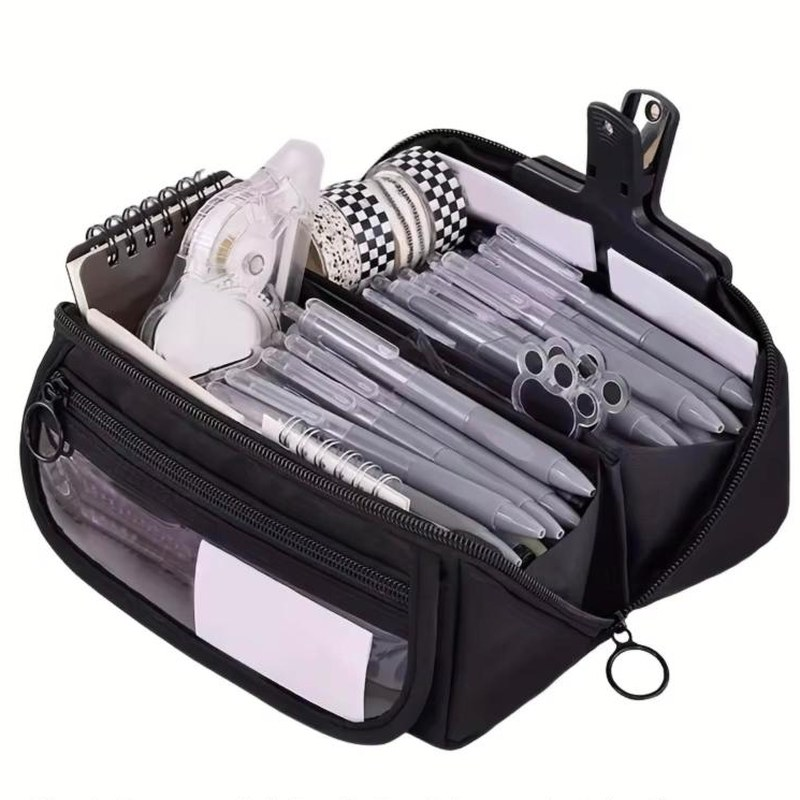
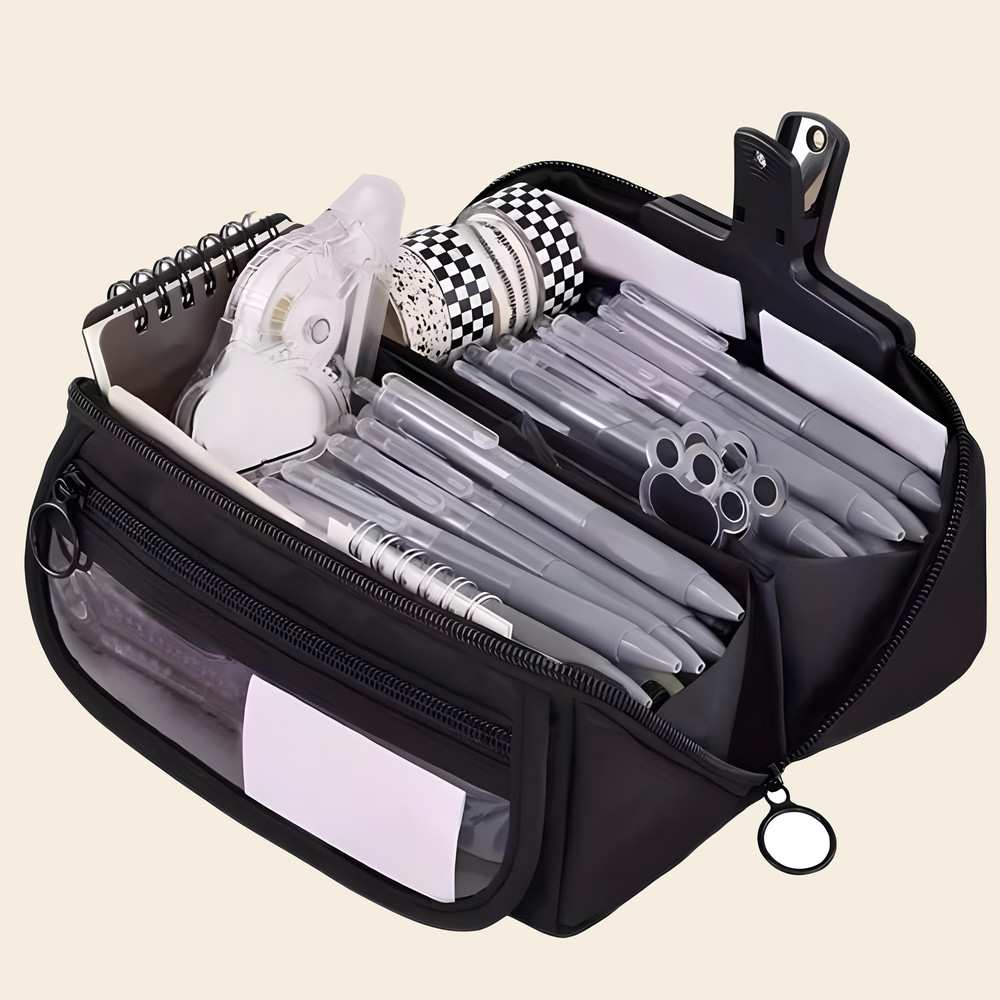
Pencil case photos enlarged with generative AI on cream; plus-sign add-to-cart animation; soy and fidget names
- Pencil case: four colour photos enlarged (Real-ESRGAN), plain backgrounds recoloured to cream (blue cut out of its scene), new main photo with all four colours on cream
- Add to cart buttons: plus icon that turns into a check with a pop, cart count bounces
- Renamed: Scented Soy Tin Candle, Steamed Bun Fidget Keychain

Claude-Session: https://claude.ai/code/session_01HZWAvbY9DuXc5XbQfyfu18

diff --git a/js/cart.js b/js/cart.js
@@ -43,11 +43,28 @@
   }
   function makeKey(id, option) { return option ? id + '|' + option : id; }
 
+  // plus sign that turns into a check mark when the item has been added (see .add-icon in styles.css)
+  window.khAddIcon = function () {
+    var span = document.createElement('span');
+    span.className = 'add-icon';
+    span.setAttribute('aria-hidden', 'true');
+    span.innerHTML =
+      '<svg class="add-plus" viewBox="0 0 12 12" width="12" height="12" fill="none" stroke="currentColor" stroke-width="2" stroke-linecap="round"><path d="M6 1.5v9M1.5 6h9"/></svg>' +
+      '<svg class="add-check" viewBox="0 0 12 12" width="12" height="12" fill="none" stroke="currentColor" stroke-width="2" stroke-linecap="round" stroke-linejoin="round"><path d="M2 6.5l2.6 2.6L10 3.2"/></svg>';
+    return span;
+  };
+
+  var lastCount = null;
   function updateBadge() {
     var n = count();
+    var grew = lastCount !== null && n > lastCount;
+    lastCount = n;
     document.querySelectorAll('.cart-count').forEach(function (el) {
       el.textContent = n;
       el.hidden = n === 0;
+      if (grew) {                                   // little bounce when something is added
+        el.classList.remove('bump'); void el.offsetWidth; el.classList.add('bump');
+      }
     });
     document.querySelectorAll('.cart-link').forEach(function (el) {
       el.setAttribute('aria-label', n ? 'Cart, ' + n + (n === 1 ? ' item' : ' items') : 'Cart, empty');
@@ -80,8 +97,9 @@
     add(makeKey(btn.getAttribute('data-add-to-cart'), btn.getAttribute('data-option')));
     btn.lastChild.textContent = 'Added';
     btn.setAttribute('aria-live', 'polite');
+    btn.classList.remove('is-added'); void btn.offsetWidth; btn.classList.add('is-added');   // plus -> check, button pops
     clearTimeout(btn._t);
-    btn._t = setTimeout(function () { btn.lastChild.textContent = btn._label; }, 1400);
+    btn._t = setTimeout(function () { btn.lastChild.textContent = btn._label; btn.classList.remove('is-added'); }, 1500);
   });
 
   /* ---------- Cart page ---------- */

diff --git a/css/styles.css b/css/styles.css
@@ -782,3 +782,18 @@ button.contact-value.is-copied { text-decoration: none; }
   .shelf-bar { margin-top: 24px; }
 }
 @media (prefers-reduced-motion: reduce) { .shelf-thumb { transition: none; } }
+
+/* ---------- Add to cart: plus sign that becomes a check ---------- */
+.add-icon { position: relative; display: inline-block; width: 12px; height: 12px; margin-right: 2px; flex: none; }
+.add-icon svg { position: absolute; inset: 0; transition: transform 0.35s cubic-bezier(0.34, 1.56, 0.64, 1), opacity 0.2s ease; }
+.add-check { opacity: 0; transform: scale(0.3) rotate(-90deg); }
+.is-added .add-plus { opacity: 0; transform: scale(0.3) rotate(180deg); }
+.is-added .add-check { opacity: 1; transform: none; }
+.button.is-added { animation: add-pop 0.45s ease; }
+@keyframes add-pop { 0% { transform: scale(1); } 40% { transform: scale(1.06); } 100% { transform: scale(1); } }
+.cart-count.bump { animation: cart-bump 0.5s ease; }
+@keyframes cart-bump { 0% { transform: scale(1); } 35% { transform: scale(1.45); } 100% { transform: scale(1); } }
+@media (prefers-reduced-motion: reduce) {
+  .add-icon svg { transition: none; }
+  .button.is-added, .cart-count.bump { animation: none; }
+}

diff --git a/js/product.js b/js/product.js
@@ -99,8 +99,7 @@
     var add = el('button', 'button button-lg product-add');
     add.type = 'button';
     add.setAttribute('data-add-to-cart', product.id);
-    var dot = el('img'); dot.src = 'assets/dot.svg'; dot.alt = ''; dot.width = 4; dot.height = 4;
-    add.appendChild(dot);
+    add.appendChild(window.khAddIcon());
     add.appendChild(document.createTextNode('Add to cart'));
 
     if (values.length) {

diff --git a/js/gallery.js b/js/gallery.js
@@ -75,7 +75,7 @@
           add = el('button', 'button g-add');
           add.type = 'button';
           add.setAttribute('data-add-to-cart', p.id);
-          add.appendChild(dot);
+          add.appendChild(window.khAddIcon());
           add.appendChild(document.createTextNode('Add to cart'));
         }
         li.appendChild(add);
